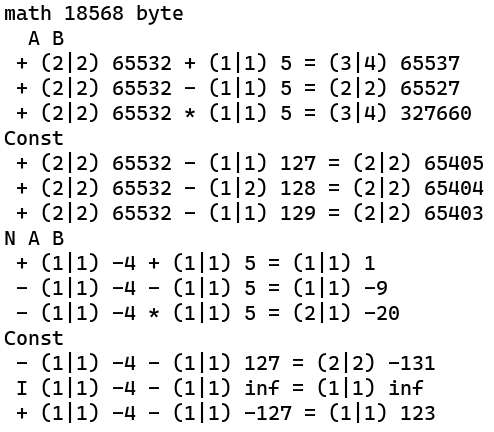
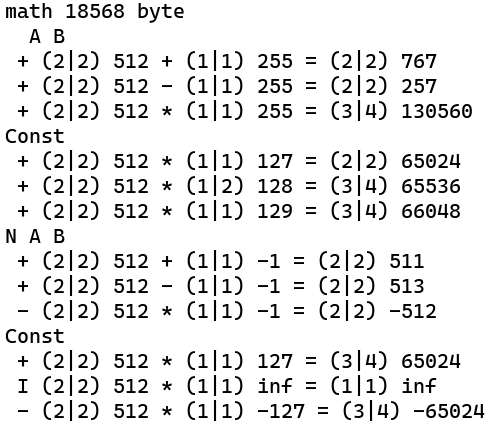
v13

diff --git a/math.c b/math.c
@@ -25,7 +25,7 @@ anu FLVD(an r, anu Dl, anu Dh) { *r++ = Dl; *r = Dh; Mat.N = (Mat.Nim && (Dh & 1
   return (((Dl == 128) ? 1: (Mat.Nim) ? (((Dl^Mat.N)&128)|(Dh != Mat.N)):(Dh ? 1:0)) != 0); }
 anu FMOV(anu l, an r, an a) { Mat.F = 0; Mat.C = 0;
   Mat.y = *(Mat.r = a + l); Mat.N = (Mat.Nim && (Mat.y & 128)) ? 255:0; Mat.z = l;
-  if (!Mat.y || (Mat.Nim && Mat.y == 128)) { Mat.a = a; while(!*Mat.a++ && l) { l--; }
+  if (!Mat.y || (Mat.Nim && Mat.y == 128)) { Mat.a = a; while(l && !*Mat.a++) { l--; }
     if ((Mat.F = l ? 0: Mat.y ? 2:1)) { *r = Mat.y; return 0; } l = Mat.z; }
   while(((Mat.y = *Mat.r--) == Mat.N) && (Mat.Nim ? !((*Mat.r ^ Mat.N) & 128):1) && l) { l--; }
   Mat.z = l; if (Mat.y != 128) Mat.y = 0; else { while(!*Mat.r-- && l) { l--; }
@@ -86,28 +86,27 @@ void FSUB(an r, an a, anu l, an b) { Mat.r = r; Mat.v = 0; Mat.C = (Mat.C != 0);
     if (Mat.C && Mat.l != 0xFF) { Mat.l++; Mat.v |= *r++; *r = Mat.na; Mat.N = Mat.na; Mat.C--; } }
   if ((Mat.F = !(Mat.v | *r))) Mat.l = 0; }
 
-void FMUL(an r, an a, anu l, an b) { Mat.r = r; Mat.b = b; Mat.lb = l;
+void FMUL(an r, an a, anu l, an b) { Mat.b = b; Mat.lb = l;
   Mat.x = *(Mat.a = a + Mat.l); Mat.na = (Mat.Nim && (Mat.x & 128)) ? 255:0; Mat.N = l;
   Mat.y = *(Mat.d = b + l); Mat.nb = (Mat.Nim && (Mat.y & 128)) ? 255:0; Mat.F = Mat.l;
   while(!*a && Mat.F) { a++; Mat.F--; } while(!*b && Mat.N) { b++; Mat.N--; }
   if (!Mat.F || !Mat.N) { if (!Mat.x || !Mat.y || (Mat.Nim && (Mat.x == 128 || Mat.y == 128))) {
       Mat.F = 1; Mat.N = 0; if (!Mat.x || !Mat.y) *r = 0; else { *r = 128; Mat.N--; Mat.F++; }
       Mat.l = 0; Mat.C = 0; return; } } Mat.l -= Mat.F; l -= Mat.N; Mat.C = (Mat.C != 0);
-  while(*Mat.a-- == Mat.na && (Mat.Nim ? !((*Mat.a ^ Mat.na) & 128):1) && Mat.F) { Mat.F--; }
-  while(*Mat.d-- == Mat.nb && (Mat.Nim ? !((*Mat.d ^ Mat.nb) & 128):1) && Mat.N) { Mat.N--; }
+  while(*Mat.a-- == Mat.na && Mat.F && (Mat.Nim ? !((*Mat.a ^ Mat.na) & 128):1)) { Mat.F--; }
+  while(*Mat.d-- == Mat.nb && Mat.N && (Mat.Nim ? !((*Mat.d ^ Mat.nb) & 128):1)) { Mat.N--; }
   Mat.y = Mat.l; Mat.x = Mat.l + l; Mat.z = Mat.x + Mat.F; Mat.l = Mat.z + Mat.N; Mat.l++;
   if (Mat.y > Mat.x || Mat.x > Mat.z || Mat.z > Mat.l) { Mat.F = 2; Mat.N = 255; *r = 128;
-    Mat.l = 0; Mat.C = 1; return; } Mat.a = &Mat.Hi.l; Mat.d = &Mat.Lo.l;
-  if (Mat.F > Mat.N) {
-    l = Mat.F; if (Mat.na) { Mat.z = 1; do Mat.z = !(*Mat.a++ = ~*a++ + Mat.z); while(l--); }
-    else { do *Mat.a++ = *a++; while(l--); }
-    l = Mat.N; if (Mat.nb) { Mat.z = 1; do Mat.z = !(*Mat.d++ = ~*b++ + Mat.z); while(l--); }
-    else { do *Mat.d++ = *b++; while(l--); } } else { l = Mat.F; Mat.F = Mat.N;
-    Mat.N = l; if (Mat.nb) { Mat.z = 1; do Mat.z = !(*Mat.a++ = ~*b++ + Mat.z); while(l--); }
-    else { do *Mat.a++ = *b++; while(l--); }
-    l = Mat.F; if (Mat.na) { Mat.z = 1; do Mat.z = !(*Mat.d++ = ~*a++ + Mat.z); while(l--); }
-    else { do *Mat.d++ = *a++; while(l--); } } *Mat.d = 0; Mat.N++; *r++ = Mat.C; l = Mat.l;
-  do *r++ = 0; while(l--); r = Mat.r + Mat.x; Mat.a = &Mat.Hi.l;
+    Mat.l = 0; Mat.C = 1; return; } Mat.r = r; r += Mat.x; Mat.a = &Mat.Hi.l; Mat.d = &Mat.Lo.l;
+  if (Mat.F > Mat.N) { l = Mat.F; if (Mat.na) { Mat.z = 1;
+      do Mat.z = !(*Mat.a++ = ~*a++ + Mat.z); while(l--); } else do *Mat.a++ = *a++; while(l--);
+    l = Mat.N; if (Mat.nb) { Mat.z = 1; 
+      do Mat.z = !(*Mat.d++ = ~*b++ + Mat.z); while(l--); } else do *Mat.d++ = *b++; while(l--); }
+  else { l = Mat.F; Mat.F = Mat.N; Mat.N = l; if (Mat.nb) { Mat.z = 1;
+      do Mat.z = !(*Mat.a++ = ~*b++ + Mat.z); while(l--); } else do *Mat.a++ = *b++; while(l--);
+    l = Mat.F; if (Mat.na) { Mat.z = 1; 
+      do Mat.z = !(*Mat.d++ = ~*a++ + Mat.z); while(l--); } else do *Mat.d++ = *a++; while(l--); }
+  Mat.a = &Mat.Hi.l; *Mat.d = 0; Mat.N++; a = Mat.r; *a++ = Mat.C; l = Mat.l; do *a++ = 0; while(l--);
   do { if ((Mat.v = *Mat.a++)) { a = &Mat.Sr.l; b = &Mat.Lo.l; l = Mat.N; do *a++ = *b++; while(l--);
          do { Mat.z = 0; b = &Mat.Sr.l; l = Mat.N; if (!(Mat.v & 1)) {
              do { Mat.w = *b; *b++ = (Mat.w << 1) | Mat.z; Mat.z = (Mat.w & 128) ? 1:0; } while(l--); }
@@ -115,7 +114,11 @@ void FMUL(an r, an a, anu l, an b) { Mat.r = r; Mat.b = b; Mat.lb = l;
              Mat.C = (Mat.x > Mat.y) || (Mat.C && Mat.x == Mat.y); *b++ = (Mat.w << 1) | Mat.z;
              Mat.z = (Mat.w & 128) ? 1:0; } while(l--); } } while(Mat.v >>= 1); } r++; } while(Mat.F--);
   Mat.F++; Mat.N = Mat.na ^ Mat.nb; if (Mat.N) { l = Mat.l; r = Mat.r; Mat.z = 1;
-    do { Mat.z = !(*r = ~*r + Mat.z); r++; } while(l--); } }
+    do { Mat.z = !(*r = ~*r + Mat.z); r++; } while(l--); } Mat.d = Mat.r + Mat.l;
+  while(*Mat.d-- == Mat.N && (Mat.Nim ? !((*Mat.d ^ Mat.N) & 128):1) && Mat.l) { Mat.l--; }
+  if (*++Mat.d != 128) { return; } Mat.a = Mat.d; l = Mat.l; while(l && !*--Mat.d) { l--; }
+  if (l) { return; } if (Mat.l != 255) { Mat.l++; *++Mat.a = Mat.N; return; }
+  Mat.F = 2; Mat.N = 255; Mat.l = 0; *Mat.r = 128; }
 
 void FDIV(an r, an e, an a, anu l, an b) { Mat.r = r; Mat.b = b; Mat.lb = l;
   Mat.x = *(Mat.a = a + Mat.l); Mat.na = (Mat.Nim && (Mat.x & 128)) ? 255:0; Mat.N = l;

diff --git a/math.h b/math.h
@@ -10,14 +10,15 @@
 #include <stdint.h>
 // Begin 05.07.2026 in Russia                  As (As      अः   основа, бытие, существовать)
 // anu (anu     अणु   атом)                     an (anka    अङ्क цифра, число)
-// Nim (Nimitta निमित्त {знаковое} представление)
+// Nim (Nimitta निमित्त {знаковое} представление) V (Vṛddhi  वृद्धि     увеличение {разрядности})
 // [{0..0}0x00] Не бытие - состояние {нет пары} находится в любом представлении чисел
 // [{0..0}0x80] Бесконечность - состояние {нет пары} находится только в знаковом представлении
 // Mat.Nim      [00/XX] {без знаковое/знаковое} представление чисел
-// Mat.C        [00/XX] {нет переноса/перенос} теперь возникнет если длина больше 256 атомов
+// Mat.V        [00/XX] Возможность увеличения разрядности результата по мере необходимости
+// Mat.C        [00/XX] {нет переноса/перенос}
 // Mat.F{Fe}    [0,1,2] {0}число/состояние{{1}не бытиё,{2}бесконечность} результата{остатка}
 // Mat.N{Ne}    [00/XX] для чисел без знаковое или положительное{00} иначе {FF}отрицательное
-// Mat.l        [0.255] длина операнда a, длина результата r
+// Mat.l        [0.255] длина первого операнда a, длина результата r
 // Mat.le       [0.255] длина остатка e
 // Mat.lb       [0.255] длина последнего обработанного второго операнда
 // Mat.b        адрес последнего обработанного второго операнда
@@ -25,11 +26,11 @@
 typedef uintptr_t As;                           // основа, разрядность процессора
 typedef uint8_t anu;                            // атом, минимальная единица
 typedef anu* an;                                // число, начальный адрес расположения
-typedef struct { anu l, m[254], h, e; } MatBuf; // 256 атомов + атом {умножить/разделить}
-typedef struct { MatBuf Hi, Lo, Sr;             // Структура реализации библиотеки
-  anu Nim, l, lb, le, C, F, N, Fe, Ne, na, nb,
+typedef struct { anu l, m[254], h; } MatBuf;    // 256 атомов
+typedef struct { MatBuf Hi, Lo, Sr; anu Nim, V, // Структура реализации библиотеки
+  l, lb, le, C, F, N, Fe, Ne, na, nb,
   u, v, w, x, y, z; an R, E, A, B, D, r, e, a, b, d; } Math;
-void FInit(anu x, anu y, an r, anu c, an a);    // Nim=l=lb..Ne=0 {Nim{,la{,lb}}}, {la{,lb}}
+void FInit(anu x, anu y, an r, anu c, an a);    // Nim=V=l=lb..Ne=0 {Nim{,V{,la{,lb}}}}, {la{,lb}}
 void FAddr(anu y, As* r, anu c, As* a);         // {r{,e{,a{,b{,d}}}}} (Mat.R = r; ..)
 void FSWAP(anu l, an r, an a);                  // Зеркалирование атомов длиной l относительно центра
 void FNEG(anu l, an r);                         // Дополнительный код числа, инверсия плюс один
@@ -52,8 +53,8 @@ extern Math Mat;
 #define Anu(...) (anu)(sizeof((anu[]){0, ##__VA_ARGS__})-1), (anu[]){0, ##__VA_ARGS__}+1
 #define Adr(...) (anu)((sizeof((As[]){0, ##__VA_ARGS__})/sizeof(As))-1), (As[]){0, ##__VA_ARGS__}+1
 #define Faddr(...) FAddr(5, (As*)&Mat.R, Adr(__VA_ARGS__))
-#define Fini(...) FInit(9, 3, &Mat.Ne, Anu(__VA_ARGS__))
-#define Flong(...) FInit(0, 2, &Mat.Nim, Anu(__VA_ARGS__))
+#define Fini(...) FInit(10, 4, &Mat.Ne, Anu(__VA_ARGS__))
+#define Flong(...) FInit(0, 2, &Mat.V, Anu(__VA_ARGS__))
 #define Fswap(l, x) FSWAP(l, x, x)
 #define Fld(D) FLD(Mat.A, D)
 #define Flvd(Dl, Dh) FLVD(Mat.A, Dl, Dh)

diff --git a/main.c b/main.c
@@ -18,15 +18,15 @@ void Num(anu s, an a) { anu ns, t[m]; if (s > 8) { printf(" %d|? ", s + 1); retu
     else if (ns) printf("%d ", *(int16_t*)a); else printf("%d ", *(int8_t*)a); }
   else { if (ns > 3) printf("%lu ", *(uint64_t*)a); else if (ns > 1) printf("%u ", *(uint32_t*)a);
     else if (ns) printf("%u ", *(uint16_t*)a); else printf("%u ", *(uint8_t*)a); } }
-void Show(char s) { Flong(la); Mat.C = 0;
+void Show(char s) { Flong(la,lb); Mat.C = 0;
   if (s == '+') FAdd(); else if (s == '-') FSub(); else if (s == '*') FMul(); else if (s == '/') FDiv();
-  else { FSubc(127); } printf("%c%c ", Mat.C ? 'C':' ', Mat.F ? (Mat.N ? 'I':'Z') : (Mat.N ? '-':'+'));
-  Num(la, Mat.A); if (s == 'c') printf("- "); else { printf("%c ", s); } Num(Mat.lb, Mat.b); printf("= "); Num(Mat.l, Mat.R);
+  else { FMulc(127); } printf("%c%c ", Mat.C ? 'C':' ', Mat.F ? (Mat.N ? 'I':'Z') : (Mat.N ? '-':'+'));
+  Num(la, Mat.A); if (s == 'c') printf("* "); else { printf("%c ", s); } Num(Mat.lb, Mat.b); printf("= "); Num(Mat.l, Mat.R);
   if (s == '/') { printf("  %c ", Mat.Fe ? (Mat.Ne ? 'I':'Z') : (Mat.Ne ? '-':'+')); Num(Mat.le, Mat.E); } printf("\n"); }
 void Const(void) { anu l, i = 2; printf("Const\n"); Show('c'); Mat.D = Mat.B;
-  Mat.B = Mat.b; l = lb; while(i--) { (*Mat.B)++; Show('-'); } Mat.B = Mat.D; lb = l; }
+  Mat.B = Mat.b; l = lb; lb = Mat.lb; while(i--) { (*Mat.B)++; Show('*'); } Mat.B = Mat.D; lb = l; }
 void Test(void) { printf("%c A B\n", Mat.Nim ? 'N':' '); Show('+'); Show('-'); Show('*'); /*Show('/');*/Const(); }
 
 int main(void) { anu a[m], b[m], e[m], r[m+m];
-  Faddr((As)r, (As)e, (As)a, (As)b); Fini(); la = Fbvi(Mat.A, 255,252); lb = Fvi(Mat.B, 5);
+  Fini(); Faddr((As)r, (As)e, (As)a, (As)b); la = Fbvi(Mat.A, 2,0); lb = Fvi(Mat.B, 255);
   Test(); Fini(1); la = Fmov(la, Mat.A); lb = Fmov(lb, Mat.B); Test(); return 0; }
